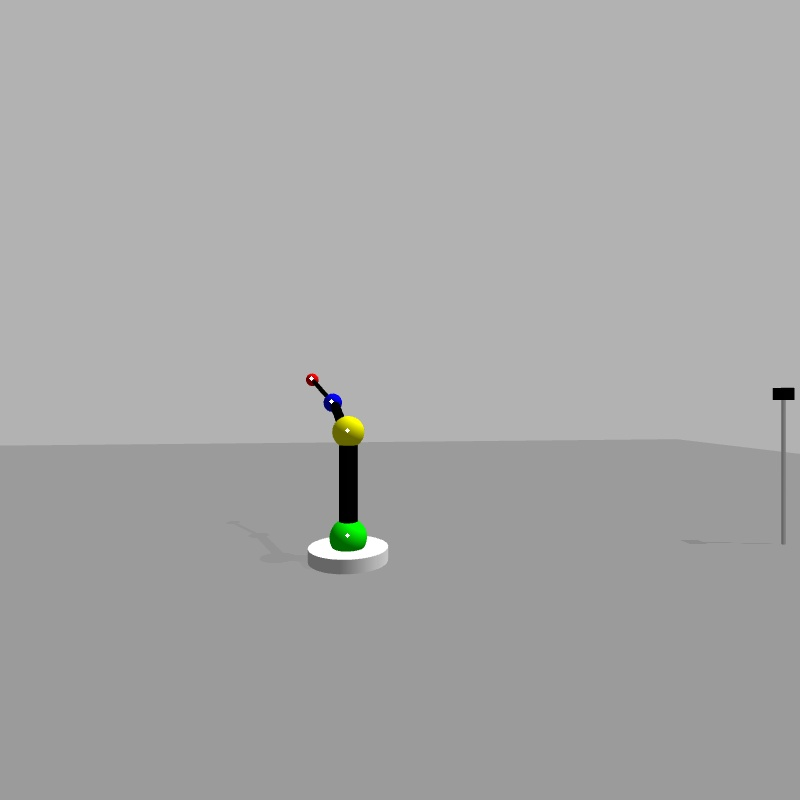
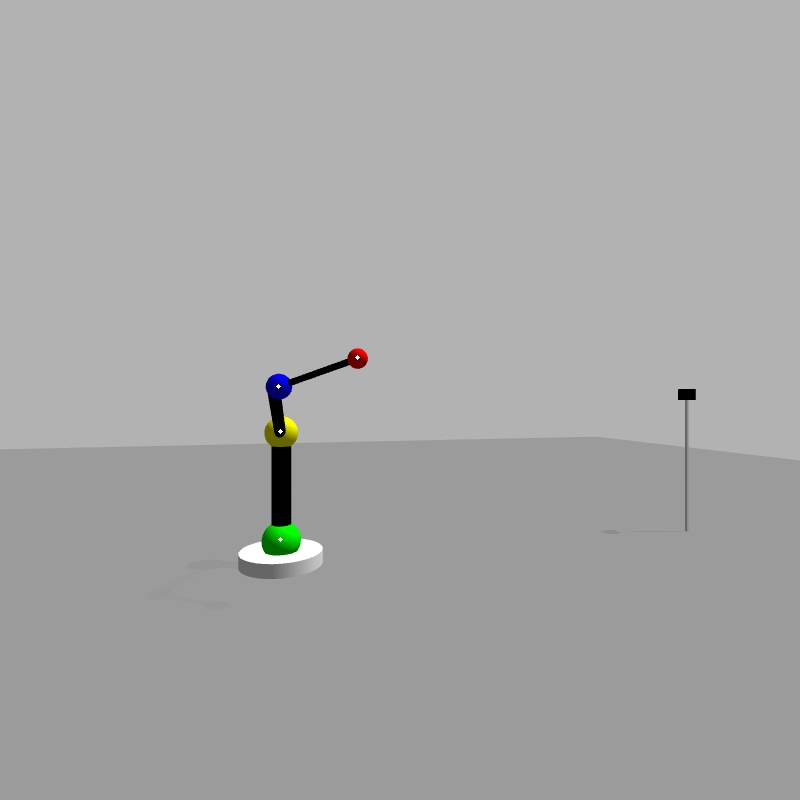
vision2

Changed region(s): [[0.2812, 0.4375, 0.5, 0.75], [0.9688, 0.4688, 1.0, 0.6875], [0.8438, 0.4688, 0.875, 0.5625]]

diff --git a/src/control.py b/src/control.py
@@ -1,0 +1,75 @@
+#!/usr/bin/env python3
+
+from genpy import message
+import roslib
+import sys
+import rospy
+import cv2
+import numpy as np
+from std_msgs.msg import String
+from sensor_msgs.msg import Image
+from std_msgs.msg import Float64MultiArray, Float64
+from cv_bridge import CvBridge, CvBridgeError
+import message_filters
+
+
+class control:
+    def __init__(self):
+        rospy.init_node('control', anonymous=True)
+
+        self.link_lengths = {
+            "link_1": 4.0,
+            "link_2": 0.0,
+            "link_3": 3.2,
+            "link_4": 2.8           
+        }
+
+        self.ja1_data = None
+        self.ja3_data = None
+        self.ja4_data = None
+
+        self.ja1_data_updated = False
+        self.ja3_data_updated = False
+        self.ja4_data_updated = False
+
+        self.ja1 = rospy.Subscriber('joint_angle_1', Float64, self.ja1_callback)
+        self.ja3 = rospy.Subscriber('joint_angle_3', Float64, self.ja2_callback)
+        self.ja4 = rospy.Subscriber('joint_angle_4', Float64, self.ja3_callback)
+        
+        def ja1_callback(self, ja1):
+            self.ja1_data = ja1.data
+            self.ja1_data_updated = True
+
+            self.callback()
+
+        def ja3_callback(self, ja3):
+            self.ja3_data = ja3.data
+            self.ja3_data_updated = True
+
+            self.callback()
+
+        def ja4_callback(self, ja4):
+            self.ja4_data = ja4.data
+            self.ja4_data_updated = True
+
+            self.callback()
+
+        def callback(self):
+            if (self.ja1_data_updated and self.ja2_data_updated and self.ja3_data_updated):
+                return None
+
+    
+
+    
+# call the class
+def main(args):
+    control = control()
+    try:
+        rospy.spin()
+    except KeyboardInterrupt:
+        print("Shutting down")
+    cv2.destroyAllWindows()
+
+# run the code if the node is called
+if __name__ == '__main__':
+    main(sys.argv)

diff --git a/src/vision_2.py b/src/vision_2.py
@@ -224,13 +224,13 @@ class joint_estimation_2:
         else:
             ja3 += 3.14
 
-        if (abs(self.previous_angles[1] - ja3) > 0.2):
-            ja3 = self.previous_angles[1]
+        # if (abs(self.previous_angles[1] - ja3) > 0.2):
+        #     ja3 = self.previous_angles[1]
 
-        if (abs(self.previous_angles[0] - ja1) > 1 and self.previous_angles[0] < ja1 and ja1 > 0):
-            ja1 -= 3.14
-        else:
-            ja1 += 3.14
+        # if (abs(self.previous_angles[0] - ja1) > 1 and self.previous_angles[0] < ja1 and ja1 > 0):
+        #     ja1 -= 3.14
+        # else:
+        #     ja1 += 3.14
 
         
         self.previous_angles = [ja1, ja3, ja4]
